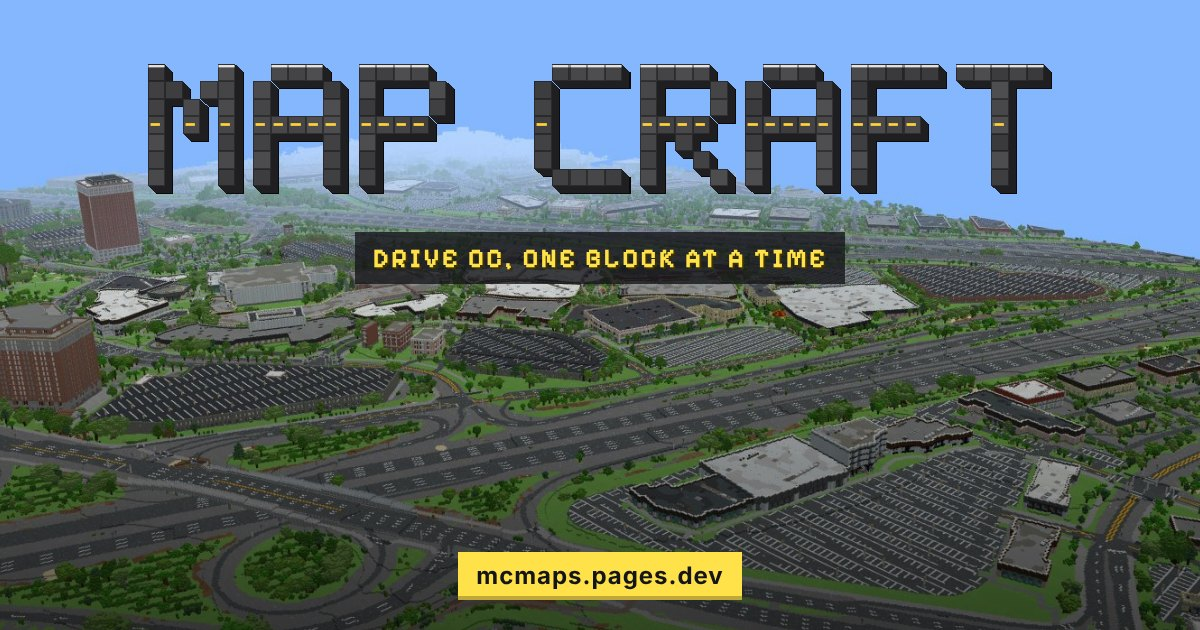
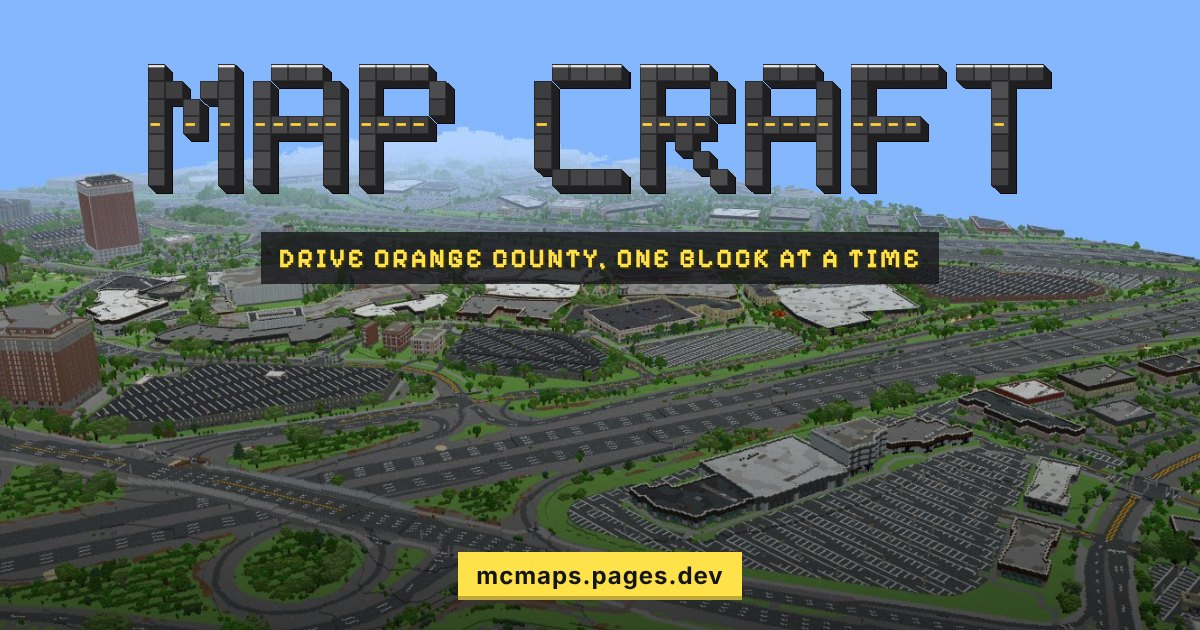
Say "Orange County" in full, and describe the review without naming AI
Claude-Session: https://claude.ai/code/session_01PiS2pVwd2x1mV2dzhjjJB8

Changed region(s): [[0.2158, 0.3619, 0.8017, 0.4524]]

diff --git a/web/home/how-its-built.html b/web/home/how-its-built.html
@@ -90,13 +90,13 @@
 </div></section>
 
 <section id="audit"><div class="wrap">
-  <div class="sh"><div><span class="tag">Quality check</span><h2 class="h2">Checked before it ships.</h2><p class="lead">Before the county goes live, AI reviewers look at hundreds of photos of the new map, and every real problem is fixed and photographed again.</p></div><span class=n>Drag to compare</span></div>
+  <div class="sh"><div><span class="tag">Quality check</span><h2 class="h2">Checked before it ships.</h2><p class="lead">Before the county goes live, hundreds of photos of the new map go through a multi-step review, and every real problem is fixed and photographed again.</p></div><span class=n>Drag to compare</span></div>
   <div class="audit">
     <ol class="funnel">
       <li class="card"><b>743</b><div><h3 class="h3">Photos taken</h3><p>A browser on a build server photographs junctions, bridges, freeways, streets, places and chunk seams.</p></div></li>
-      <li class="card"><b>148</b><div><h3 class="h3">Flagged</h3><p>Twelve Haiku reviewers look at every photo and flag anything that looks wrong.</p></div></li>
-      <li class="card"><b>39</b><div><h3 class="h3">Confirmed</h3><p>Fable reviewers check each flag and keep only the real defects.</p></div></li>
-      <li class="card ok"><b>Fixed</b><div><h3 class="h3">Rebuilt and rechecked</h3><p>Opus agents fix the cause, the chunks are rebuilt and the same spots are photographed again.</p></div></li>
+      <li class="card"><b>148</b><div><h3 class="h3">Flagged</h3><p>A first review pass looks at every photo and flags anything that looks wrong.</p></div></li>
+      <li class="card"><b>39</b><div><h3 class="h3">Confirmed</h3><p>A second, stricter review checks each flag and keeps only the real defects.</p></div></li>
+      <li class="card ok"><b>Fixed</b><div><h3 class="h3">Rebuilt and rechecked</h3><p>The cause is fixed in the build tools, the chunks are rebuilt and the same spots are photographed again.</p></div></li>
     </ol>
     <div class="card fixes" data-fixes>
       <div class="top"><span class="tag">Before and after</span><div class="seg" role="group" aria-label="Choose a fix"><button data-k="toll">Toll road</button><button data-k="pch">Bridge</button><button data-k="i405">Freeway</button><button data-k="stairs">Ramp</button></div></div>

diff --git a/web/home/index.html b/web/home/index.html
@@ -8,7 +8,7 @@
 <meta property="og:type" content="website">
 <meta property="og:site_name" content="Map Craft">
 <meta property="og:title" content="Map Craft">
-<meta property="og:description" content="Drive OC, one block at a time. A blocky 3D map of 11 Orange County cities, free in your browser.">
+<meta property="og:description" content="Drive Orange County, one block at a time. A blocky 3D map of 11 Orange County cities, free in your browser.">
 <meta property="og:url" content="https://mcmaps.pages.dev/">
 <meta property="og:image" content="https://mcmaps.pages.dev/assets/img/og.jpg">
 <meta property="og:image:width" content="1200">
@@ -16,7 +16,7 @@
 <meta property="og:image:alt" content="Map Craft logo over a blocky 3D view of Orange County">
 <meta name="twitter:card" content="summary_large_image">
 <meta name="twitter:title" content="Map Craft">
-<meta name="twitter:description" content="Drive OC, one block at a time. A blocky 3D map of 11 Orange County cities, free in your browser.">
+<meta name="twitter:description" content="Drive Orange County, one block at a time. A blocky 3D map of 11 Orange County cities, free in your browser.">
 <meta name="twitter:image" content="https://mcmaps.pages.dev/assets/img/og.jpg">
 <meta name="theme-color" content="#1b1c1f">
 <link rel="stylesheet" href="assets/home.css">
@@ -29,7 +29,7 @@
   <div class="shade"></div>
   <div class="wrap">
     <h1><canvas class="logo" data-text="MAP CRAFT" data-stack="auto" aria-hidden="true"></canvas><span class="sr">Map Craft</span></h1>
-    <div class="sub">DRIVE OC, ONE BLOCK AT A TIME</div>
+    <div class="sub">DRIVE ORANGE COUNTY, ONE BLOCK AT A TIME</div>
     <nav class="menu" aria-label="Main">
       <a class="btn primary" href="map"><canvas class="ico" data-i="car"></canvas>Drive on Web</a>
       <a class="btn" href="#" data-pop="app-pop" aria-haspopup="dialog"><canvas class="ico" data-i="phone"></canvas>Get the App <span class="tag">SOON</span></a>

diff --git a/web/index.html b/web/index.html
@@ -4,11 +4,11 @@
 <meta charset="utf-8">
 <meta name="viewport" content="width=device-width, initial-scale=1">
 <title>Blockville</title>
-<meta name="description" content="Drive OC, one block at a time. A blocky 3D map of 11 Orange County cities, free in your browser.">
+<meta name="description" content="Drive Orange County, one block at a time. A blocky 3D map of 11 Orange County cities, free in your browser.">
 <meta property="og:type" content="website">
 <meta property="og:site_name" content="Map Craft">
 <meta property="og:title" content="Map Craft: drive Orange County">
-<meta property="og:description" content="Drive OC, one block at a time. A blocky 3D map of 11 Orange County cities, free in your browser.">
+<meta property="og:description" content="Drive Orange County, one block at a time. A blocky 3D map of 11 Orange County cities, free in your browser.">
 <meta property="og:url" content="https://mcmaps.pages.dev/map">
 <meta property="og:image" content="https://mcmaps.pages.dev/assets/img/og.jpg">
 <meta property="og:image:width" content="1200">

diff --git a/web/home/assets/site.js b/web/home/assets/site.js
@@ -66,7 +66,7 @@
     const pic = one('.dn', dn), bs = all('.seg button', dn), clock = one('.clock', dn);
     const h = +new Intl.DateTimeFormat('en-US', { hour: 'numeric', hourCycle: 'h23', timeZone: 'America/Los_Angeles' }).format(new Date()), autoNight = h < 6 || h >= 18;
     const set = m => { const night = m === 'night' || (m === 'auto' && autoNight); pic.classList.toggle('night', night);
-      bs.forEach(b => b.setAttribute('aria-pressed', b.dataset.m === m)); clock.textContent = m === 'auto' ? (night ? 'Auto · night now in OC' : 'Auto · day now in OC') : (night ? 'Night' : 'Day'); };
+      bs.forEach(b => b.setAttribute('aria-pressed', b.dataset.m === m)); clock.textContent = m === 'auto' ? (night ? 'Auto · night now in Orange County' : 'Auto · day now in Orange County') : (night ? 'Night' : 'Day'); };
     bs.forEach(b => b.addEventListener('click', () => set(b.dataset.m)));
     set('day');
   }
